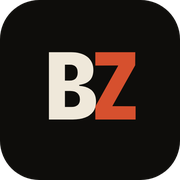
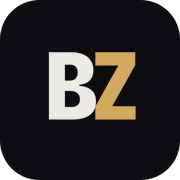
Versión 3.0.0: icono e imagen para compartir con la paleta nueva, commits en tarjetas en el móvil y pruebas sin fallos intermitentes

Changed region(s): [[0.5278, 0.2778, 0.7778, 0.6667]]

diff --git a/e2e/portfolio.spec.ts b/e2e/portfolio.spec.ts
@@ -1,4 +1,4 @@
-import { expect, test, type Page } from '@playwright/test'
+import { expect, test, type Locator, type Page } from '@playwright/test'
 
 // Todas las pruebas empiezan en español, sin depender del idioma del navegador
 test.beforeEach(async ({ page }) => {
@@ -7,6 +7,18 @@ test.beforeEach(async ({ page }) => {
   })
   await page.goto('/')
 })
+
+/** La caja de un elemento cuando lleva un momento sin moverse (scroll suave y animaciones) */
+async function cajaQuieta(elemento: Locator) {
+  let antes = await elemento.boundingBox()
+  for (let i = 0; i < 40; i++) {
+    await elemento.page().waitForTimeout(100)
+    const ahora = await elemento.boundingBox()
+    if (antes && ahora && Math.abs(antes.x - ahora.x) < 0.5 && Math.abs(antes.y - ahora.y) < 0.5 && Math.abs(antes.width - ahora.width) < 0.5) return ahora
+    antes = ahora
+  }
+  throw new Error('el elemento no deja de moverse')
+}
 
 const esMovil = (page: Page) => (page.viewportSize()?.width ?? 1440) < 768
 
@@ -31,6 +43,8 @@ test('ninguna sección provoca scroll horizontal', async ({ page }) => {
 })
 
 test('se juega una mano de BlackJack con el motor COBOL', async ({ page }) => {
+  // Carga el intérprete de COBOL y juega una mano entera: con el PC cargado necesita más margen
+  test.slow()
   await abrirPaleta(page)
   await page.getByPlaceholder('Escribe un comando o un proyecto…').fill('cobol')
   await page.keyboard.press('Enter')
@@ -108,7 +122,8 @@ test('el retrato se dibuja y cada proyecto tiene su imagen', async ({ page }) =>
 test('la oreja del retrato abre el acceso al panel de visitas', async ({ page }) => {
   const retrato = page.locator('.retrato__lienzo')
   await retrato.scrollIntoViewIfNeeded()
-  const caja = (await retrato.boundingBox())!
+  // El scroll es suave y la sección entra animada: se pulsa cuando el retrato ya no se mueve
+  const caja = await cajaQuieta(retrato)
   await page.mouse.click(caja.x + caja.width * 0.665, caja.y + caja.height * 0.38)
   const panel = page.getByRole('dialog', { name: 'Panel de visitas' })
   await expect(panel.getByLabel('Contraseña')).toBeVisible()

diff --git a/src/components/GitHub.css b/src/components/GitHub.css
@@ -217,12 +217,53 @@
     grid-template-columns: 1fr;
   }
 
+  /* En el móvil, cada commit es una tarjeta: repo y fecha arriba, el mensaje entero y sus cambios */
+  .github__commits {
+    display: grid;
+    gap: 0.6rem;
+  }
+
+  .github__commits li {
+    border-bottom: 0;
+  }
+
   .github__commits a {
-    grid-template-columns: 1fr auto auto;
+    grid-template-columns: 1fr auto;
+    grid-template-areas:
+      'repo fecha'
+      'mensaje mensaje'
+      'lineas lineas';
+    gap: 0.45rem 1rem;
+    padding: 0.95rem 1rem;
+    border: 1px solid var(--linea);
+    border-radius: 14px;
+    background: var(--tinta-2);
+  }
+
+  .github__commits a:hover {
+    padding-left: 1rem;
   }
 
   .github__repo {
-    grid-column: 1 / -1;
+    grid-area: repo;
+    color: var(--bermellon);
+  }
+
+  .github__fecha {
+    grid-area: fecha;
+  }
+
+  .github__mensaje {
+    grid-area: mensaje;
+    display: -webkit-box;
+    -webkit-box-orient: vertical;
+    -webkit-line-clamp: 2;
+    line-height: 1.4;
+    white-space: normal;
+  }
+
+  .github__lineas {
+    grid-area: lineas;
   }
 }
 
@@ -239,4 +280,23 @@
 .github__lineas del {
   color: var(--rosa);
   text-decoration: none;
+}
+
+.github__cuadros {
+  display: inline-flex;
+  gap: 2px;
+  margin-left: 0.5rem;
+  vertical-align: -1px;
+}
+.github__cuadros i {
+  width: 7px;
+  height: 7px;
+  border-radius: 2px;
+}
+.github__cuadro--mas {
+  background: var(--celadon);
+}
+.github__cuadro--menos {
+  background: var(--rosa);
+  opacity: 0.7;
 }

diff --git a/src/components/GitHub.tsx b/src/components/GitHub.tsx
@@ -107,6 +107,19 @@ async function cargarDirecto(): Promise<Datos> {
   }
 }
 
+/** Los cinco cuadraditos de GitHub: verdes por lo añadido y rojos por lo quitado */
+function Cuadros({ mas, menos }: { mas: number; menos: number }) {
+  const total = mas + menos
+  const verdes = total ? Math.round((mas / total) * 5) : 0
+  return (
+    <span className="github__cuadros" aria-hidden="true">
+      {Array.from({ length: 5 }, (_, i) => (
+        <i key={i} className={i < verdes ? "github__cuadro--mas" : "github__cuadro--menos"} />
+      ))}
+    </span>
+  )
+}
+
 const NIVELES = ['·', ':', '=', '#', '@']
 
 /** Calendario de contribuciones dibujado con caracteres: una columna por semana */
@@ -236,6 +249,7 @@ export default function GitHub() {
                     ) : c.mas !== undefined && (
                       <span className="github__lineas" aria-label={t(`${c.mas} líneas añadidas y ${c.menos} quitadas`, `${c.mas} lines added and ${c.menos} removed`)}>
                         <ins>+{c.mas}</ins> <del>−{c.menos}</del>
+                        <Cuadros mas={c.mas} menos={c.menos ?? 0} />
                       </span>
                     )}
                     <span className="github__fecha">{haceCuanto(c.fecha, idioma)}</span>

diff --git a/playwright.config.ts b/playwright.config.ts
@@ -5,6 +5,10 @@ export default defineConfig({
   testDir: './e2e',
   timeout: 30_000,
   fullyParallel: true,
+  // Cada prueba anima el planeta a 60 fps: con un navegador por núcleo el PC se ahoga y todo va lento
+  workers: process.env.CI ? 2 : 4,
+  // Con varios navegadores animando a la vez, 5 segundos a veces no llegan para que algo aparezca
+  expect: { timeout: 10_000 },
   retries: process.env.CI ? 1 : 0,
   reporter: process.env.CI ? 'github' : 'list',
   use: {

diff --git a/CHANGELOG.md b/CHANGELOG.md
@@ -1,14 +1,15 @@
 # Versiones del portfolio
 
-## 2.1.0 · 20 de noviembre de 2026
+## 3.0.0 · 20 de noviembre de 2026
 
-Nueva paleta y tres lenguajes más.
+Nueva paleta, GitHub en directo y tres lenguajes más.
 
 - Paleta «grafito y champán»: fondo grafito con un punto de azul, texto blanco porcelana, el acento en champán en lugar del bermellón, y salvia y azul lavanda de apoyo. Cambia también en los dibujos en ASCII (planeta, retrato, dragón, logos y ventanas de los proyectos).
+- El icono de la pestaña y la imagen al compartir el enlace, con la paleta nueva.
 - Trayectoria estrena titular: «Paso a paso, hasta aquí.».
 - Nuevo grupo «Sistemas» en las tecnologías, con Rust, NSIS y GLSL.
 - La versión se ve en el pie de la página.
-- «Lo último que he subido» se conecta a todo mi GitHub: salen mis repositorios públicos (también los nuevos), nunca forks ni repos de otros, y solo mis commits grandes, con sus líneas añadidas y quitadas. Se actualiza sola mientras la página está abierta.
+- «Lo último que he subido» se conecta a todo mi GitHub: salen mis repositorios públicos (también los nuevos), nunca forks ni repos de otros, y solo mis commits grandes, con sus líneas añadidas y quitadas y los cuadraditos de GitHub. Se actualiza sola mientras la página está abierta, y en el móvil cada commit es una tarjeta.
 - Descargar el CV ya no falla a veces: el menú de idiomas se abre hacia arriba si no cabe en pantalla y no se cierra antes de que empiece la descarga.
 
 ## 2.0.0
